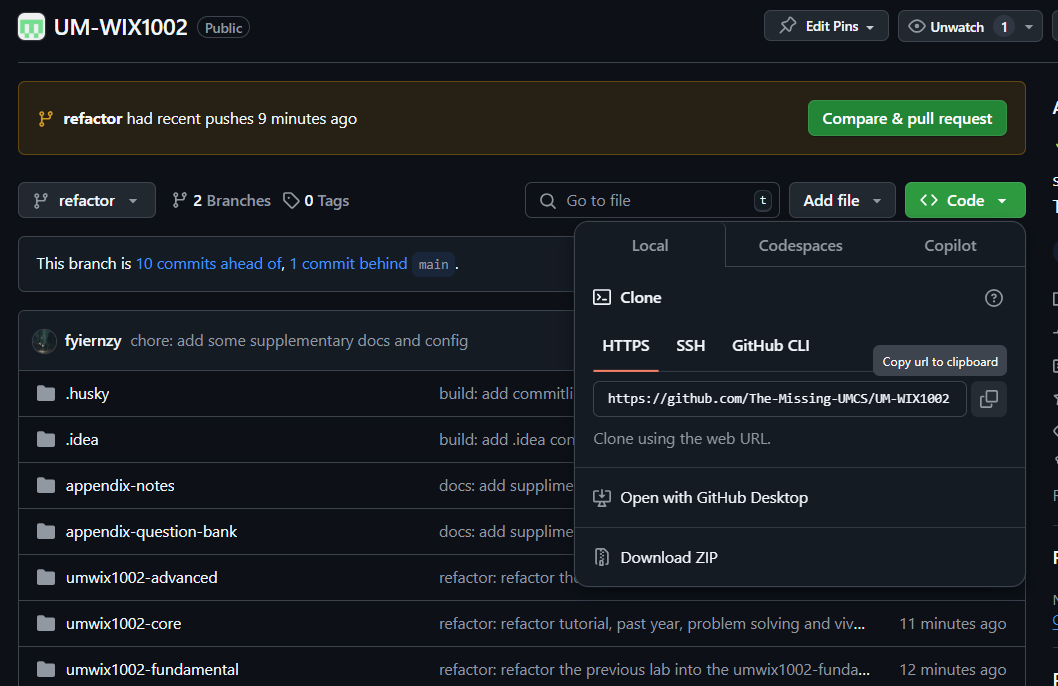
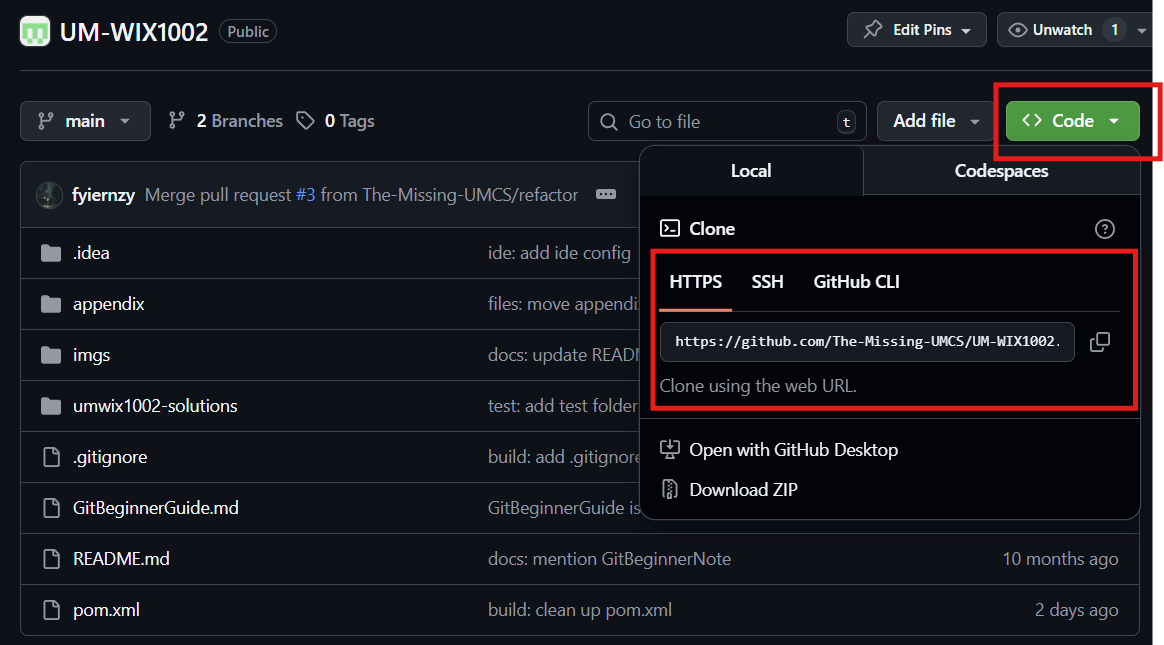
docs: update README file as a closing note

diff --git a/README.md b/README.md
@@ -1,67 +1,20 @@
-# ⚠ Must-Read: Don’t Miss Out or You’ll Regret It!
+# 👋 Hi Juniors. Take a minute or two to read this.
 
-This repository contains a range of study materials for the WIX1002 (Fundamental of Programming) course.
+Good day, juniors. I hope you’re doing well, and if WIX1002 Fundamental of Programming has been stressing you out, I hope this small message makes things feel a little lighter.
 
-WIX1002 is offered by the Faculty of Computer Science and Information Technology (FCSIT) at the Universiti Malaya (UM) in Malaysia. Here, you will find notes, questions, source code, and detailed explanations for Tutorials and Labs (UM-WIX1002) that accompany the course.
+This repository gathers everything I’ve learned while surviving — and eventually loving — this course. You’ll find notes, questions, source code, and detailed explanations (if anyone requests for it XD) for Tutorials and Labs (UM-WIX1002). Think of it as a toolbox built by someone who walked the same path you’re on now, someone who remembers how confusing the early weeks felt.
 
-Feel free to browse the materials and use them to supplement your learning. Hopefully, you find this repository helpful and informative. If you have any questions or suggestions, don’t hesitate to reach out to me.
+If you find this repository helpful, give it a star. If you want to add your own improvements, feel free to create a pull request. And if anything doesn’t work or leaves you stuck, reach out to me on WhatsApp (Ng Zhi Yang, 017-7809292). I’ll help however I can.
 
-![last_update_shield](https://img.shields.io/badge/Last%20Update-January%202024-orange)
+The guideline to use this repository: [2. A Brief Guideline to This Repository](https://github.com/The-Missing-UMCS/UM-WIX1002/tree/main?tab=readme-ov-file#2-a-brief-guideline-to-this-repository)
+
+![last_update_shield](https://img.shields.io/badge/Last%20Update-23%20November%202025-orange)
 ![license_shield](https://img.shields.io/github/license/fyiernzy/UM-WIA1002)
 
-## 1. Navigation
 
-- **Basic lab solutions**: [umwix1002-fundamental-solution](https://github.com/The-Missing-UMCS/UM-WIX1002/tree/refactor/umwix1002-fundamental/src/main/java/com/umwix1002/solution/lab)
-- **Advanced lab solutions**: [umwix1002-advanced-solution](https://github.com/The-Missing-UMCS/UM-WIX1002/tree/refactor/umwix1002-advanced/src/main/java/com/umwix1002/solution/lab)
-- **Tutorials**: [umwix1002-core-tutorial](https://github.com/The-Missing-UMCS/UM-WIX1002/tree/refactor/umwix1002-core/src/main/java/com/umwix1002/solution/tutorial)
-- **Problem-solving**: [umwix1002-core-problem-solving](https://github.com/The-Missing-UMCS/UM-WIX1002/tree/refactor/umwix1002-core/src/main/java/com/umwix1002/solution/problemsolving)
-- **Viva**: [umwix1002-core-viva](https://github.com/The-Missing-UMCS/UM-WIX1002/tree/refactor/umwix1002-core/src/main/java/com/umwix1002/solution/viva)
-- **Past years**: [umwix1002-core-past-year](https://github.com/The-Missing-UMCS/UM-WIX1002/tree/refactor/umwix1002-core/src/main/java/com/umwix1002/solution/pastyear). The past year solutions have covered all solutions from 2016 till 2024.
+## 1. My Journey with FOP
 
-## 2. Using IntelliJ
-
-This repository is optimized for IntelliJ, so you can run all the code without extra configuration. If you’re using Eclipse, VSCode, Sublime Text, NetBeans, or other IDEs, you might need to refactor the code to make it compatible. However, I recommend IntelliJ as it’s the best IDE for Java. Use NetBeans only for exams, not for learning or developing assignments.
-
-### How to Run the Code in IntelliJ
-
-
-1. Clone the repository to your desired location.
-![img.png](imgs/img.png)
-![img_1.png](imgs/img_1.png)
-2. Open IntelliJ and click on Open or Import.
-![img_2.png](imgs/img_2.png)
-3. Select any code to run. Create a Pull Request (PR) if you find any errors when running the code. All code is designed to be self-contained, meaning it should run independently without dependencies.
-
-## 3. Useful Resources
-
-- **[💻 Oracle - Java](https://docs.oracle.com/javase/tutorial/)**  
-  My go-to reference for understanding Java methods and their precise usage. The official documentation is comprehensive and an essential resource for Java developers.
-
-- **[🤖 ChatGPT](https://openai.com/blog/chatgpt/)**  
-  An incredibly helpful tool for refactoring code and learning new problem-solving techniques. However, always validate its suggestions and don’t let it limit your creativity.
-
-- **[📚 StackOverflow](https://stackoverflow.com/)**  
-  A reliable resource I frequently used before ChatGPT. It still serves as a great platform to find answers to specific programming challenges.
-
-- **[🔥 GitHub](https://github.com/)**  
-  A treasure trove of references and solutions. While many repositories offer useful insights, this repository strives to be the most comprehensive.
-
-## 4. Git Command
-
-Here are some useful Git commands:
-
-- `git clone <url>`: Clone a repository into a new directory
-- `git add <file/folder>`: Add a change in the working directory to staging area
-- `git add .`: Add all changes to staging area
-- `git commit -m "message"`: Record changes to the repository
-- `git push origin <branch>`: Push changes to the remote repository
-- `git status`: Displays the state of the working directory and the staging area.
-
-For more information, watch Lecture 6: Version Control (Git) from MIT’s Missing Semester Course or read Pro Git. [ChatGPT](https://chatgpt.com/) can also be a quick reference. Refer to [Git Beginner Guide](https://github.com/The-Missing-UMCS/UM-WIX1002/blob/refactor/GitBeginnerGuide.md) if you wish.
-
-## 5. My Journey with FOP
-
-### 5.1. Year 1 (Last updated: 17/12/2022)
+### 1.1. Year 1 (Last updated: 17/12/2022)
 
 December 2022 was one of the most challenging times in my programming journey. I lost every single Lab and Tutorial file in Eclipse. I realized this devastating loss on 14/12/2022, and it hit me hard because I had no backups. The only silver lining was the few files I had pushed to GitHub/GitLab (Lab1 to Lab6).
 
@@ -86,7 +39,7 @@ Here are some tips that helped me through:
 
 If you’re ever struggling, remember that it’s part of the process. Feel free to reach out to me at 017-780 9298 (WhatsApp/Telegram). You’re not alone, and you’ve got this. Good luck!
 
-### 5.3. Year 3 (Last updated: 15/1/2025)
+### 1.2. Year 3 (Last updated: 15/1/2025)
 
 Looking back, I didn’t update this repository during Year 2 because I was overwhelmed with responsibilities as the Head of Department for an event. It was only in Year 3, during my internship, that I returned to this code. Revisiting Java during my internship reignited my passion for programming. I began to explore clean code, design patterns, and best practices, and I fell in love with the elegance of well-written code.
 
@@ -108,26 +61,128 @@ Oh, I’ve been using commitlint to standardize my commit messages. To try it ou
 
 Good luck. You are amazing, and your journey is just beginning.
 
+### 1.3.4. Year 4 (Last Updated: 23 November 2025)
 
+#### 1.3.4.1 Throw Back I: Why I'm creating this repository?
 
-## 6. Miscellaneous
+Time moves quietly, relentlessly, and almost imperceptibly, until one day you look back and realise just how far you've walked. It has been years since I first created this repository, and now, my heart swells with the feeling too complex to name. There is a soft ache in nostalgia, a gentle heaviness that rises when you finally bid farewell to something you’ve tended with curiosity, stubborn hope, and the patience of countless seasons. You watch it grow alongside you, and it becomes part of who you are.
 
-### 6.1. Forking the Repo
+I still remember building this repository as if it were a photograph suspended in time. It was an ordinary afternoon — or maybe a late night; those early semesters often blurred together — sometime in 2022. All I wanted was a place to practise Git and share my solutions. Nothing ambitious. Nothing grand. 
+
+Little did I know it would become so much more.
+
+Back in Year 1, mastering Git/GitHub felk like unlocking a secret door. Hardly anyone around me knew these tools, and with the innocence of freshman, that small technical edge made me feel strangely confident.
+
+But as semesters unfolded, something shifted. I began noticing how many of my peers were struggling — not because they lacked potential, but because programming was so foreign to them. Some hadn't even chosen this path; the course had been assigned to them. And for many of us, FOP lab was brutal. Even now, as Year 4 student, I still believe that if I were to rewind back to Year 1 with today's mindset, FOP would feel like a mountain.
+
+There was no ChatGPT in 2022. No instant explanation. No fallback.
+
+What began as a personal exercise slowly transformed into something more compassionate—a small gesture to ease someone else’s struggle. And when I realised that even one person might benefit from what I posted, the pride I felt was genuine and unexpectedly meaningful. I wasn’t just coding anymore; I was helping.
+
+A few friends later created their own repositories too. We studied each other's code, borrowed ideas, built on one another's logic. Looking back, those moments feel warm. A quite, little community forged not by formality, but by shared curiosity and youthful enthusiasm.
+
+#### 1.3.4.2 What Makes Me Revisit This Repository
+
+If you've read Section 5.2.3, you might already sense the reasons pulling me back. I once thought refining everything would be easy, perhaps with a few touch-ups, some restructuring, maybe a weekend or two of work. But refactoring, as always, revealed itself to be harder than expected. Life moved faster than my plans: academic pressure, personal development, internship tasks, and the weight of the final-year project all collided at once.
+
+But what drained me the most wasn't the workload.
+
+It was the silence. 
+
+Lu Xun once said:
+"Praise motivates. Criticism sharpens. But silence makes one feel invisible."
+
+It felt as though the repository I had poured myself into had quietly slipped into the background, unseen and unappreciated. So I let go. I told myself the repository had served its purpose and quietly stepped away.
+
+But life has its own timing. 
+
+In my final semester, I became a demonstrator, my last role in the long journey of university life. Suddenly, I was face-to-face with freshies again: bright-eyed, uncertain, stumbling through code the same way I once did. There is a tenderness in recognising your past self in someone else. Their struggle awakened something in me — a desire to reach back, to guide, to protect.
+
+That’s how [_A Short Note: Git and GitHub_](https://docs.google.com/document/d/1g_zROSlt2mc738iPzJfkGzWkmVsknNKrGwOrTkMnobo/edit?usp=sharing) and [_A Git Crash Course_](https://docs.google.com/document/d/15lfIJgp8tAXFdQxJqnmksdpyHrUulR67KpcWqwX3vUg/edit?usp=sharing) came to life. Not out of obligation, but out of care. I spend more than five hours writing the those manuals. I stayed in the lab until 7:00 p.m. just to teach them Git and GitHub. I wanted them to feel seen, not stranded.
+
+And somewhere along the way, I realised something quietly beautiful: my old repository was no longer forgotten. They were using it quietly, in ways I never imagined. They might never star it or comment, but they returned to it when they needed help. And that, silent reliance reminded me that my work still mattered.
+
+In truth, I couldn't persuade myself to abandon the effort I had poured into this place. This repository grew with me through years and seasons, through triumphs and heartbreaks. and over those up and down. It knows how many hours I’ve spent on it—days, nights, entire evenings that slipped quietly away. And can I truly give it up? No. I admitted to myself: I must watch it grow and graduate, just as I have. I cannot break the promise I made to the younger version of me. He would never forgive me if I did.
+
+Refactoring became easier once I found that purpose again. I realised how my earlier solutions had grown too advanced—filled with enums, Arrays.stream(), and Optional. Elegant, yes, but unkind to beginners. Splitting the repository into submodules only made navigation harder. So I rebuilt the entire experience: one unified repository, with multiple solutions for every question—from foundational to advanced. For Lab07 Question 5, for example, I included six solutions: from a simple array (l7q5a), to a matrix-based approach (l7q5b), all the way to a Stream-based solution (l7q5f). For anyone wanting to deepen their understanding of Java or functional programming, I prepared a gentle staircase—not a cliff.
+
+To simplify further, I removed unnecessary tools like Husky and Docker. Beginners didn’t need noise. They needed clarity. This repository was never meant to show off industry-grade pipelines; it was meant to teach fundamentals.
+
+Simpler is better.
+Less is more.
+Clarity over complexity.
+Warmth over technical bravado.
+
+### 1.3.4.3. It Comes to An End
+
+There’s a saying in Chinese: “Everything eventually reaches its end.”  Everything, no matter how precious, eventually reaches its end. So it is with my journey with FOP. 
+
+From here on, I will only maintain the repository lightly, perhaps adding FOP Final 2025/2026 solutions. After graduation, life will pull me toward new roads, new uncertainties, new beginnings. I may not look back as often as I once did. That's the nature of growth — we must sometimes leave behind the things we've built to make room for what comes next.
+
+But I won’t archive this. Some things deserve to stay open, even if the world moves on. This repository is a small piece of who I was —— the hopeful Year 1 student, the tired Year 3 intern, the passionate Year 4 demonstrator. It carries my youth, my mistakes, my growth, and the quiet ways I once tried to help others. It carries memories of who I was, who I became, and the people I crossed paths with along the way.
+
+And I want it to live on —— breathing, evolving —— even without me at the helm. I want it to remain a place where new contributors can continue the story I began. May it continue, with new hearts and new hands, long after my chapter closes. My hope is simple: that this repository becomes a resource for future batches long after I have left. That it grows beyond my hands. That it becomes a lighthouse for anyone who feels lost or uncertain. 
+
+That is why I begin this chapter with my story.
+
+Because if you are reading this, chances are you’ve struggled too.
+And if you feel the same spark — the desire to help someone you may never meet — then this repository is waiting for you.
+
+Leave a comment. Fork it. Send a pull request.
+I will always welcome you here.
+
+Because learning is never meant to be a lonely journey.
+And neither is this repository.
+
+## 2. A Brief Guideline to This Repository
+
+### 2.1. Navigation
+
+These links take you directly to what you need:
+
+- **Lab**: [umwix1002-solutions/lab/](https://github.com/The-Missing-UMCS/UM-WIX1002/tree/main/umwix1002-solutions/src/main/java/com/umwix1002/solution/lab)
+- **Tutorials**: [umwix1002-solutions/tutorial/](https://github.com/The-Missing-UMCS/UM-WIX1002/tree/refactor/umwix1002-core/src/main/java/com/umwix1002/solution/tutorial)
+- **Problem-solving**: [umwix1002-solutions/problemsolving/](https://github.com/The-Missing-UMCS/UM-WIX1002/tree/refactor/umwix1002-core/src/main/java/com/umwix1002/solution/problemsolving)
+- **Viva**: [umwix1002-solutions/viva/](https://github.com/The-Missing-UMCS/UM-WIX1002/tree/main/umwix1002-solutions/src/main/java/com/umwix1002/solution/viva)
+- **Past years**: [umwix1002-solutions/pastyear/](https://github.com/The-Missing-UMCS/UM-WIX1002/tree/main/umwix1002-solutions/src/main/java/com/umwix1002/solution/pastyear).
+
+### 2.2. Using IntelliJ
+
+This repository is optimised for IntelliJ. Everything should run without extra setup.
+If you’re using Eclipse, VSCode, Sublime Text, NetBeans, or anything else, you may need to adjust a few things.
+
+**How to run the code**:
+1. Clone the repository to your chosen folder.
+   ![img.png](imgs/img.png)
+   ![img_1.png](imgs/img_1.png)
+2. Open IntelliJ and click on Open or Import.
+   ![img_2.png](imgs/img_2.png)
+3. Select any code to run. Create a Pull Request (PR) if you find any errors when running the code. All code is designed to be self-contained, meaning it should run independently without dependencies.
+
+### 2.3. Questions
+
+Many questions come with multiple solutions. The simplest version, using only basic methods or minimal Java features, is labelled a. Versions b, c, d, and so on gradually become more advanced.
+
+Take your time. Explore. Choose whichever version makes sense to you.
+
+## 3. Contribution
+
+### 3.1. Forking the Repo
 
 To access this repository offline or contribute, fork it. Forking allows you to add functionality, simplify code, or create test units. Learn more in the [Fork a Repo guide](https://docs.github.com/en/pull-requests/collaborating-with-pull-requests/working-with-forks/fork-a-repo).
 
-### 6.2. Star the Repo
+### 3.2. Star the Repo
 
 Don’t forget to star this repository to receive updates. Updates may include code simplification, additional comments, or new self-written notes for clarity. Starring the repo is also a simple way to show your appreciation and support.
 
-### 6.3. Contribution
+### 3.3. Contribution
 
 If you want to contribute, create a pull request. Refer to these GitHub guides for help:
 
 * [**About Pull Requests in GitHub**](https://docs.github.com/en/pull-requests/collaborating-with-pull-requests/proposing-changes-to-your-work-with-pull-requests/about-pull-requests)
 * [**Creating Pull Requests**](https://docs.github.com/en/pull-requests/collaborating-with-pull-requests/proposing-changes-to-your-work-with-pull-requests/creating-a-pull-request)
 
-## 7. References
+## 4. References
 
 - <https://github.com/LimJY03/WIX1002_UM>
 - <https://github.com/fyiernzy/UM-WIX1002>
